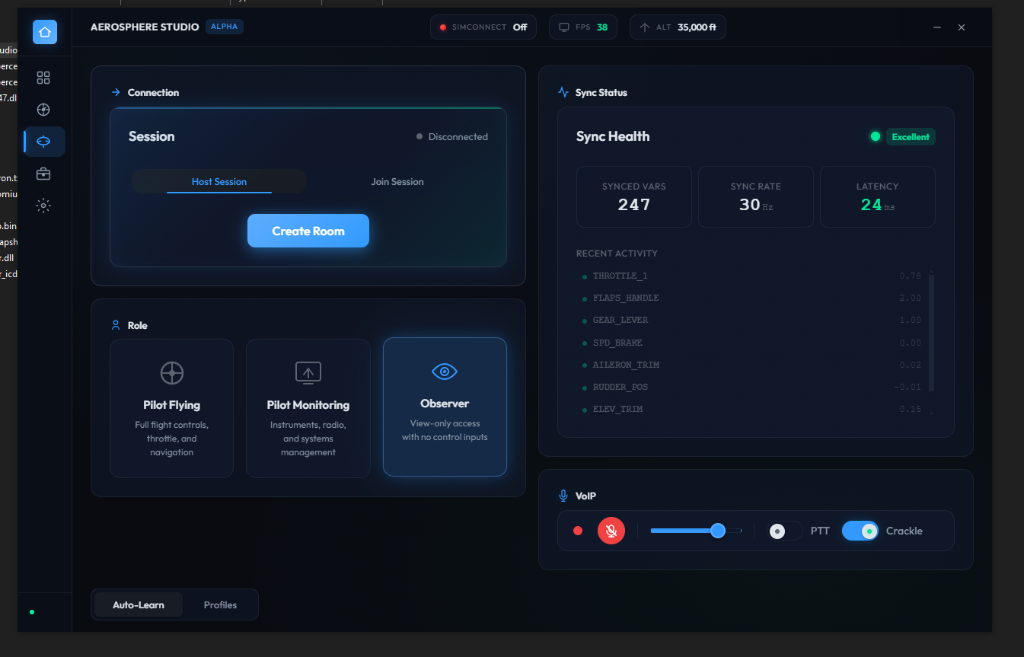
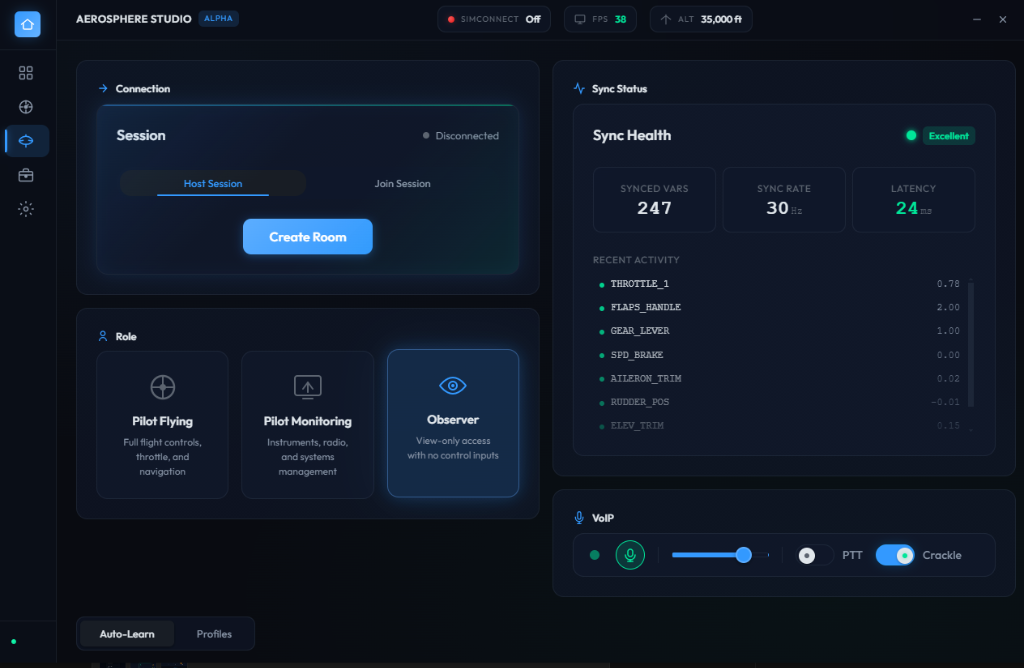
docs: replace placeholder screenshots with actual app screenshots

diff --git a/README.md b/README.md
@@ -14,14 +14,20 @@ A unified, high-performance desktop co-op, career, and performance suite for **M
 ### 1. Main Dashboard
 ![Main Dashboard](docs/images/dashboard_preview.png)
 
-### 2. Shared Cockpit Panel
-![Shared Cockpit](docs/images/shared_cockpit.png)
+### 2. Dynamic LOD Engine
+![Dynamic LOD Engine](docs/images/lod_engine.png)
 
-### 3. Dynamic LOD Engine
-![LOD Engine](docs/images/lod_engine.png)
+### 3. Shared Cockpit Panel
+![Shared Cockpit Panel](docs/images/shared_cockpit.png)
 
-### 4. Cloud Account & Billing Web Dashboard
-![Web Dashboard](docs/images/web_billing.png)
+### 4. Career Mode Dashboard
+![Career Mode Dashboard](docs/images/career_mode.png)
+
+### 5. Aircraft Shop (Career Mode)
+![Aircraft Shop](docs/images/aircraft_shop.png)
+
+### 6. Pilot Sign-In Screen
+![Sign In Screen](docs/images/sign_in.png)
 
 ---
 